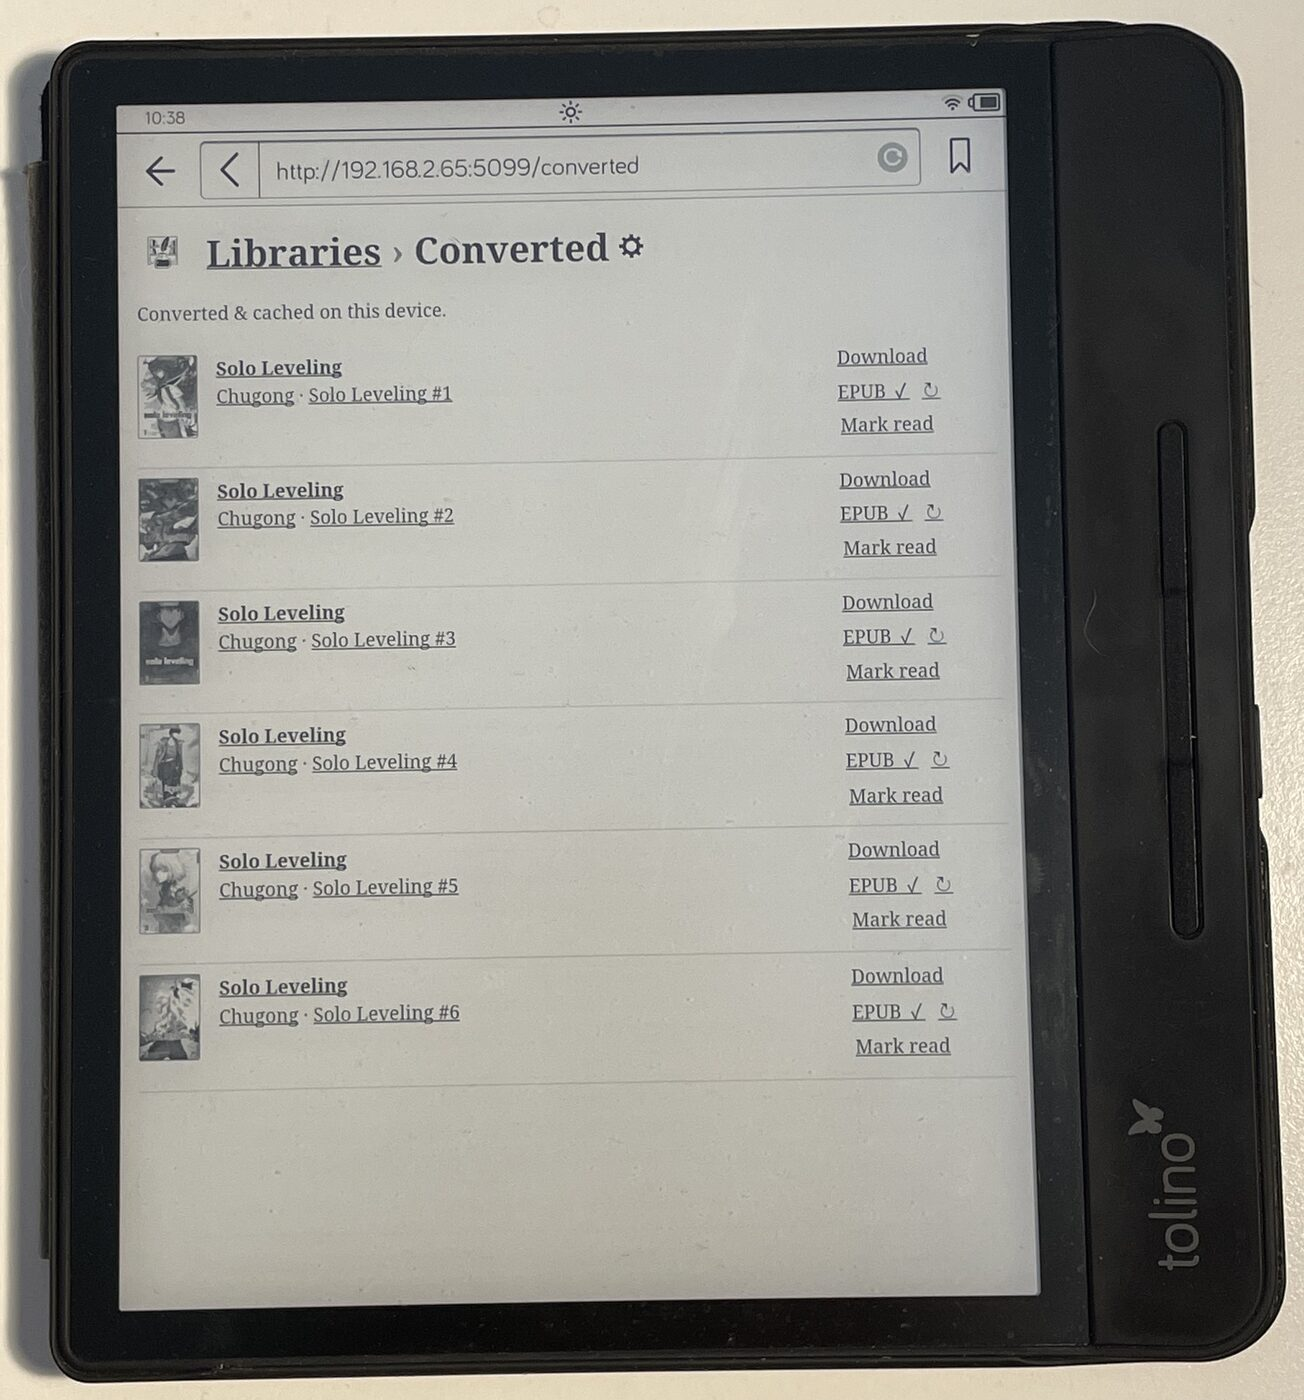
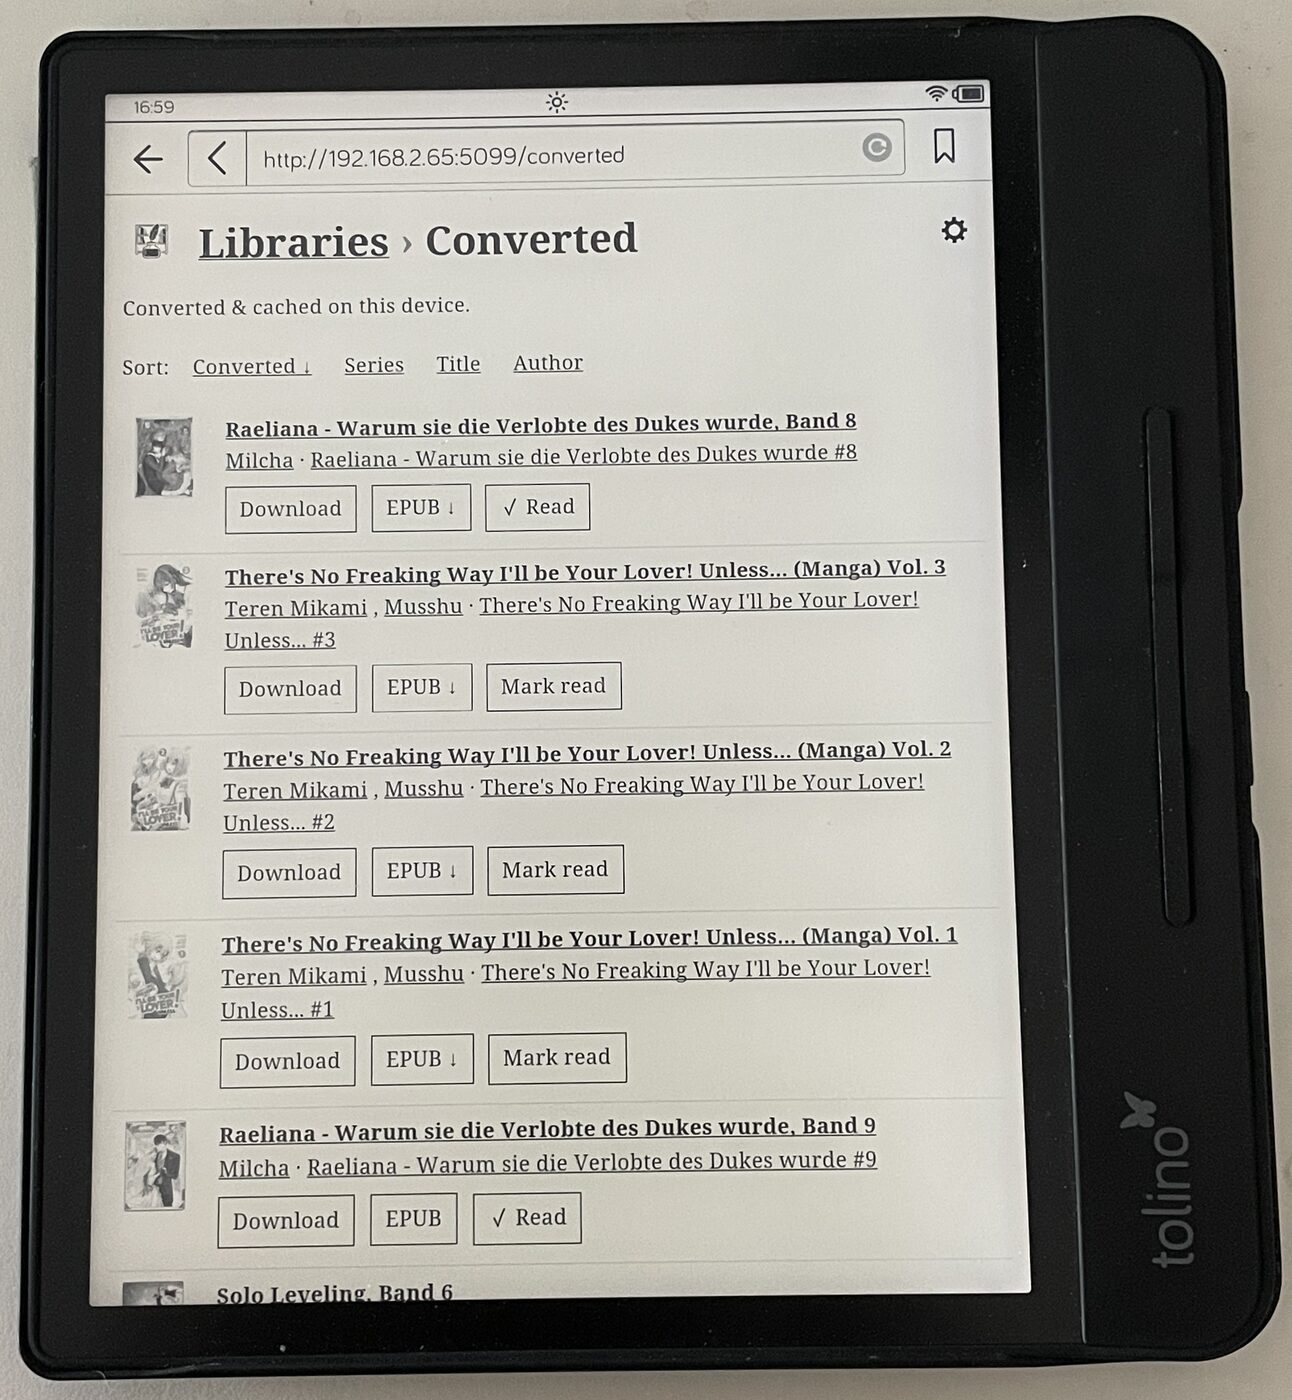
docs: refresh the device screenshots and add the settings page
Retaken on the reader at v0.5.0, so the login shot shows the SSO button and
the matching buttons. Downscaled to the existing 1400px convention. Adds a
Settings section, which had no screenshot before.

diff --git a/docs/SCREENSHOTS.md b/docs/SCREENSHOTS.md
@@ -8,7 +8,7 @@ Inkshelf running on a real e-ink reader. Click any image to enlarge.
   <a href="img/login.jpg"><img src="img/login.jpg" alt="Login screen" width="260"></a>
 </p>
 
-<p align="center"><sub>Sign in with your Audiobookshelf credentials.</sub></p>
+<p align="center"><sub>Sign in with your Audiobookshelf credentials — or, when the server is set up for it, through the same OIDC provider (here: Pocket ID).</sub></p>
 
 ### Libraries
 
@@ -48,7 +48,7 @@ Inkshelf running on a real e-ink reader. Click any image to enlarge.
   <a href="img/converted-view.jpg"><img src="img/converted-view.jpg" alt="List of comics already converted and cached on this device" width="260"></a>
 </p>
 
-<p align="center"><sub>Everything already converted and cached for this device, across all libraries.</sub></p>
+<p align="center"><sub>Everything already converted and cached for this device, across all libraries — with its own sort links, and a <code>↓</code> on the files this device has already downloaded.</sub></p>
 
 ### Reading a converted comic
 
@@ -57,3 +57,11 @@ Inkshelf running on a real e-ink reader. Click any image to enlarge.
 </p>
 
 <p align="center"><sub>A CBZ converted to a fixed-layout EPUB, read in the device's native reader.</sub></p>
+
+### Settings
+
+<p align="center">
+  <a href="img/settings.jpg"><img src="img/settings.jpg" alt="Per-device settings: detected screen size, retina and grayscale toggles, language" width="260"></a>
+</p>
+
+<p align="center"><sub>Per-device settings, held in a cookie rather than an account: the screen size Inkshelf detected (used to size converted pages), the retina and grayscale toggles, and the UI language.</sub></p>
